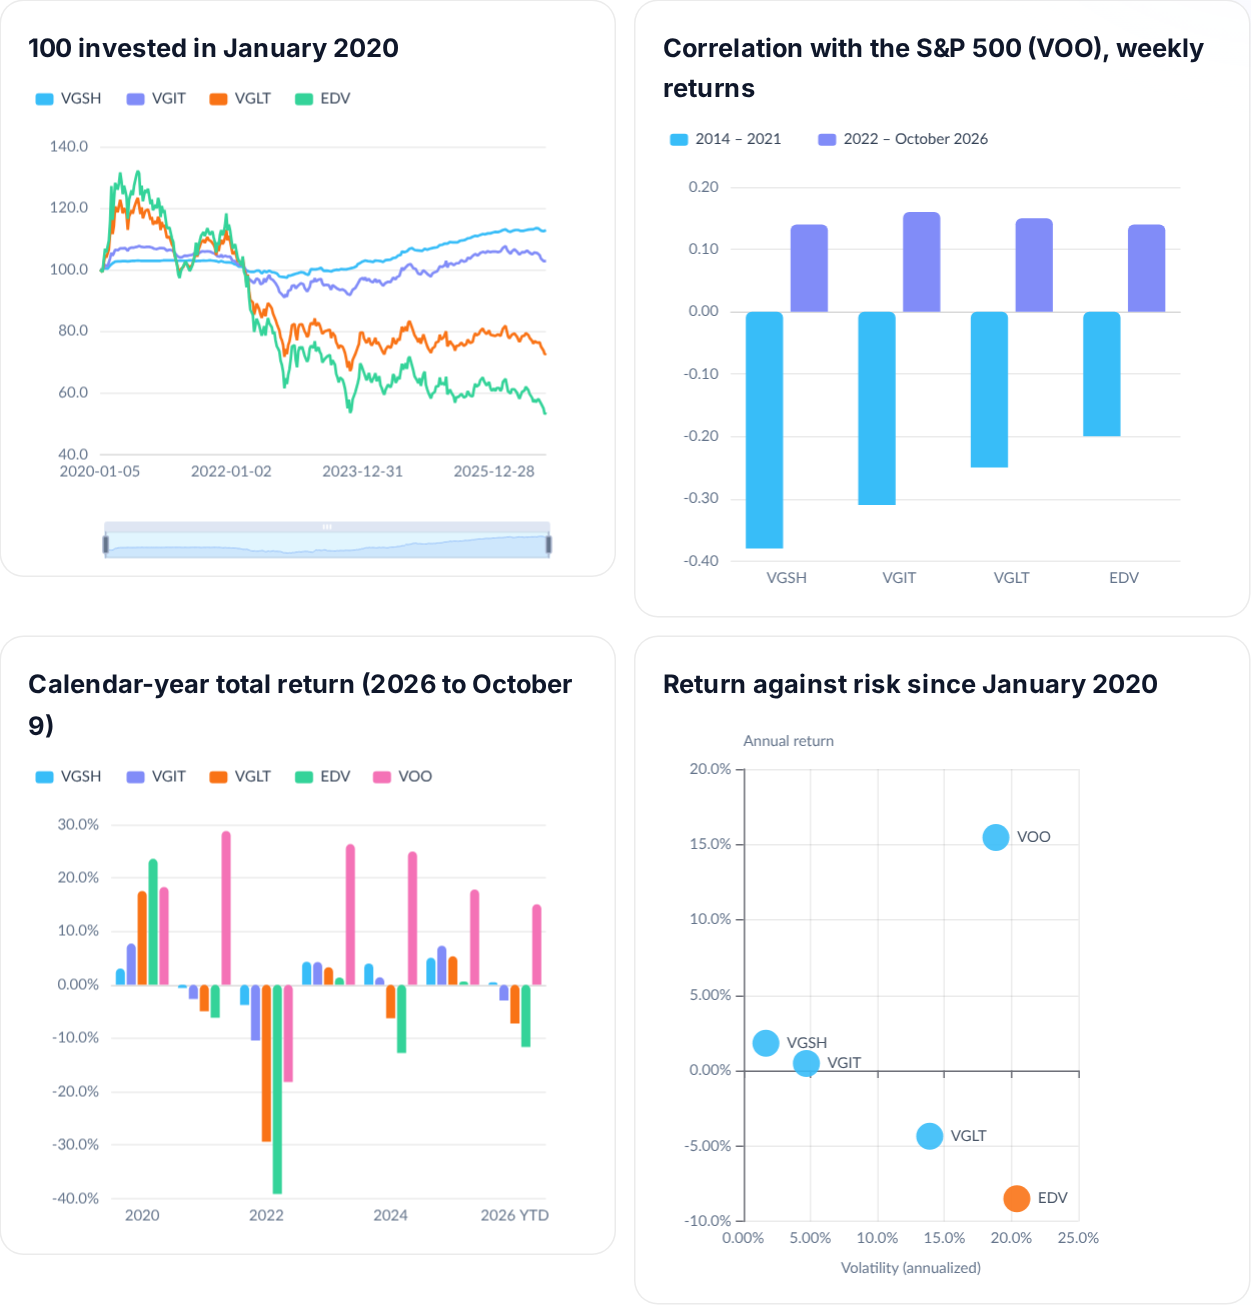
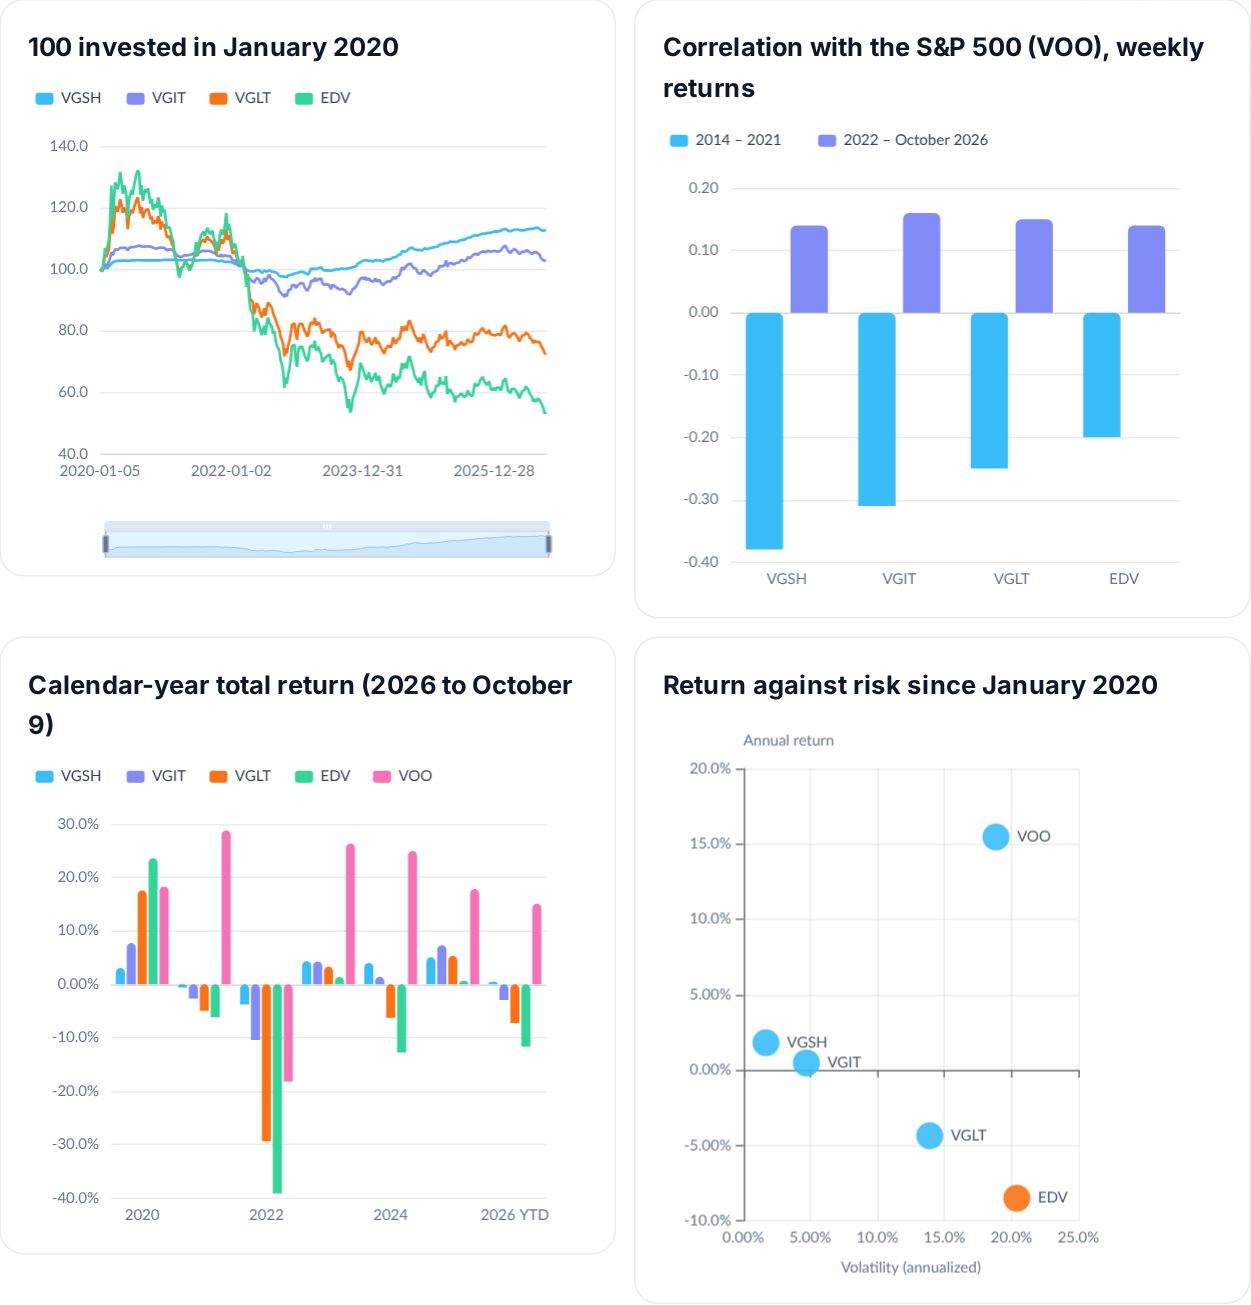
Medium images: always an even 2 by n grid, site layout unchanged
The uranium and Apple dashboards keep their three charts on the site. A fourth
chart for each (the correlation heatmap, Apple's listings by country) is in the
page but hidden, and only drawn in the Medium export, which also lays every
chart out at half width.

diff --git a/_sass/_article-components.scss b/_sass/_article-components.scss
@@ -209,6 +209,8 @@ $ca-gradient: linear-gradient(120deg, #38bdf8, #818cf8 60%, #c084fc);
     gap: 12px;
     .mcp-show__cell { min-width: 0; }
     .mcp-show__cell--wide { grid-column: 1 / -1; }
+    // a chart only for the Medium image of the grid, which is always an even 2 by n
+    .mcp-show__cell--medium { display: none; }
     .ft-chart { margin: 0; }
     .ft-chart__canvas, .ft-chart__loading { height: 320px; }
     @media (max-width: 900px) { grid-template-columns: 1fr; }
@@ -227,6 +229,12 @@ $ca-gradient: linear-gradient(120deg, #38bdf8, #818cf8 60%, #c084fc);
       table:not(.highlight) td:first-child { display: block !important; margin-bottom: 2px; color: var(--text-primary); font-weight: 600; }
       table:not(.highlight) td + td:not(:nth-child(2))::before { content: " · "; color: var(--text-muted); }
     }
+  }
+  // the Medium export (export_images.js sets window.mediumExport and .medium-export): every chart half
+  // width, plus the charts kept for Medium only
+  .medium-export & .mcp-show__grid {
+    .mcp-show__cell--wide { grid-column: auto; }
+    .mcp-show__cell--medium { display: block; }
   }
   .mcp-show__verdict {
     margin: 14px 0 0;

diff --git a/assets/js/ft-charts.js b/assets/js/ft-charts.js
@@ -12,7 +12,10 @@
  * with the page.
  */
 (function () {
-  var boxes = Array.prototype.slice.call(document.querySelectorAll('.ft-chart[data-chart]'));
+  // charts only meant for the Medium images stay hidden and undrawn on the site
+  var boxes = Array.prototype.slice.call(document.querySelectorAll('.ft-chart[data-chart]')).filter(function (b) {
+    return !b.closest('.mcp-show__cell--medium') || window.mediumExport;
+  });
   if (!boxes.length) return;
 
   var ECHARTS = '/assets/js/lib/echarts-5.5.1.min.js';

diff --git a/_pages/articles/find-stocks-and-etfs-with-claude.md b/_pages/articles/find-stocks-and-etfs-with-claude.md
@@ -138,8 +138,8 @@ Below are six real questions, answered through both servers on October 12, 2026,
 <details class="mcp-show__trace"><summary><i class="fas fa-list-check" aria-hidden="true"></i> The steps behind the answer</summary><ol><li><code>etfs</code><span>Finance Database: "uranium" in the name, every exchange and currency</span></li><li><code>search_instruments</code><span>Finance Database: Cameco, one of the largest uranium miners, as a reference</span></li><li><code>market_data</code><span>Prices with distributions since February 2023, US dollar listings</span></li><li><code>performance</code><span>Calendar-year returns and the correlation of weekly returns</span></li><li><code>risk</code><span>Maximum drawdown since February 2023</span></li></ol></details>
 
 <div class="mcp-show__grid">
-<div class="mcp-show__cell">{% include ft-chart.html id="fdb-uranium-growth" src="/assets/data/article-charts.json" label="Value of 100 invested in uranium ETFs and Cameco since February 2023" %}</div>
-<div class="mcp-show__cell">{% include ft-chart.html id="fdb-uranium-corr" src="/assets/data/article-charts.json" label="Correlation of weekly returns of uranium ETFs and Cameco" %}</div>
+<div class="mcp-show__cell mcp-show__cell--wide">{% include ft-chart.html id="fdb-uranium-growth" src="/assets/data/article-charts.json" label="Value of 100 invested in uranium ETFs and Cameco since February 2023" %}</div>
+<div class="mcp-show__cell mcp-show__cell--medium">{% include ft-chart.html id="fdb-uranium-corr" src="/assets/data/article-charts.json" label="Correlation of weekly returns of uranium ETFs and Cameco" %}</div>
 <div class="mcp-show__cell">{% include ft-chart.html id="fdb-uranium-years" src="/assets/data/article-charts.json" label="Calendar-year returns of uranium ETFs" %}</div>
 <div class="mcp-show__cell">{% include ft-chart.html id="fdb-uranium-risk" src="/assets/data/article-charts.json" label="Total return against maximum drawdown of uranium ETFs" %}</div>
 </div>
@@ -155,10 +155,10 @@ Below are six real questions, answered through both servers on October 12, 2026,
 <details class="mcp-show__trace"><summary><i class="fas fa-list-check" aria-hidden="true"></i> The steps behind the answer</summary><ol><li><code>search_instruments</code><span>Finance Database: the ISIN, every listing with its exchange and currency</span></li><li><code>market_data</code><span>Prices of seven listings, one per market, since January 2025</span></li><li><code>market_data</code><span>Exchange rates of the dollar against the euro, peso, real and others</span></li></ol></details>
 
 <div class="mcp-show__grid">
-<div class="mcp-show__cell">{% include ft-chart.html id="fdb-isin-listings" src="/assets/data/article-charts.json" label="Listings of Apple's ISIN by country" %}</div>
+<div class="mcp-show__cell mcp-show__cell--medium">{% include ft-chart.html id="fdb-isin-listings" src="/assets/data/article-charts.json" label="Listings of Apple's ISIN by country" %}</div>
 <div class="mcp-show__cell">{% include ft-chart.html id="fdb-apple-listings" src="/assets/data/article-charts.json" label="Apple's return on each of seven listings since January 2025" %}</div>
-<div class="mcp-show__cell">{% include ft-chart.html id="fdb-apple-fx" src="/assets/data/article-charts.json" label="Apple on Nasdaq, Xetra, Buenos Aires and São Paulo since January 2025" %}</div>
 <div class="mcp-show__cell">{% include ft-chart.html id="fdb-apple-dollar" src="/assets/data/article-charts.json" label="The dollar against five currencies since January 2025" %}</div>
+<div class="mcp-show__cell mcp-show__cell--wide">{% include ft-chart.html id="fdb-apple-fx" src="/assets/data/article-charts.json" label="Apple on Nasdaq, Xetra, Buenos Aires and São Paulo since January 2025" %}</div>
 </div>
 <div class="mcp-show__verdict"><p class="mcp-show__label"><i class="fas fa-lightbulb" aria-hidden="true"></i> What the data shows</p><p>One share, returns from 12% to 92%. In dollars, Apple rose 39.1% since January 2025. On Xetra in euros it rose 25.6%, because the dollar lost 8.0% against the euro; in São Paulo it rose 12.1%, as the dollar lost 19.5% against the real. In Buenos Aires it rose 91.9%, most of it the peso's fall: the dollar rose 47% against it. The two charts side by side explain each other: each listing is roughly Apple's dollar return plus the currency move.</p></div>
 <div class="ca-nums"><span><b>39.1%</b>in dollars</span><span><b>25.6%</b>in euros on Xetra</span><span><b>91.9%</b>in Argentine pesos</span></div>
